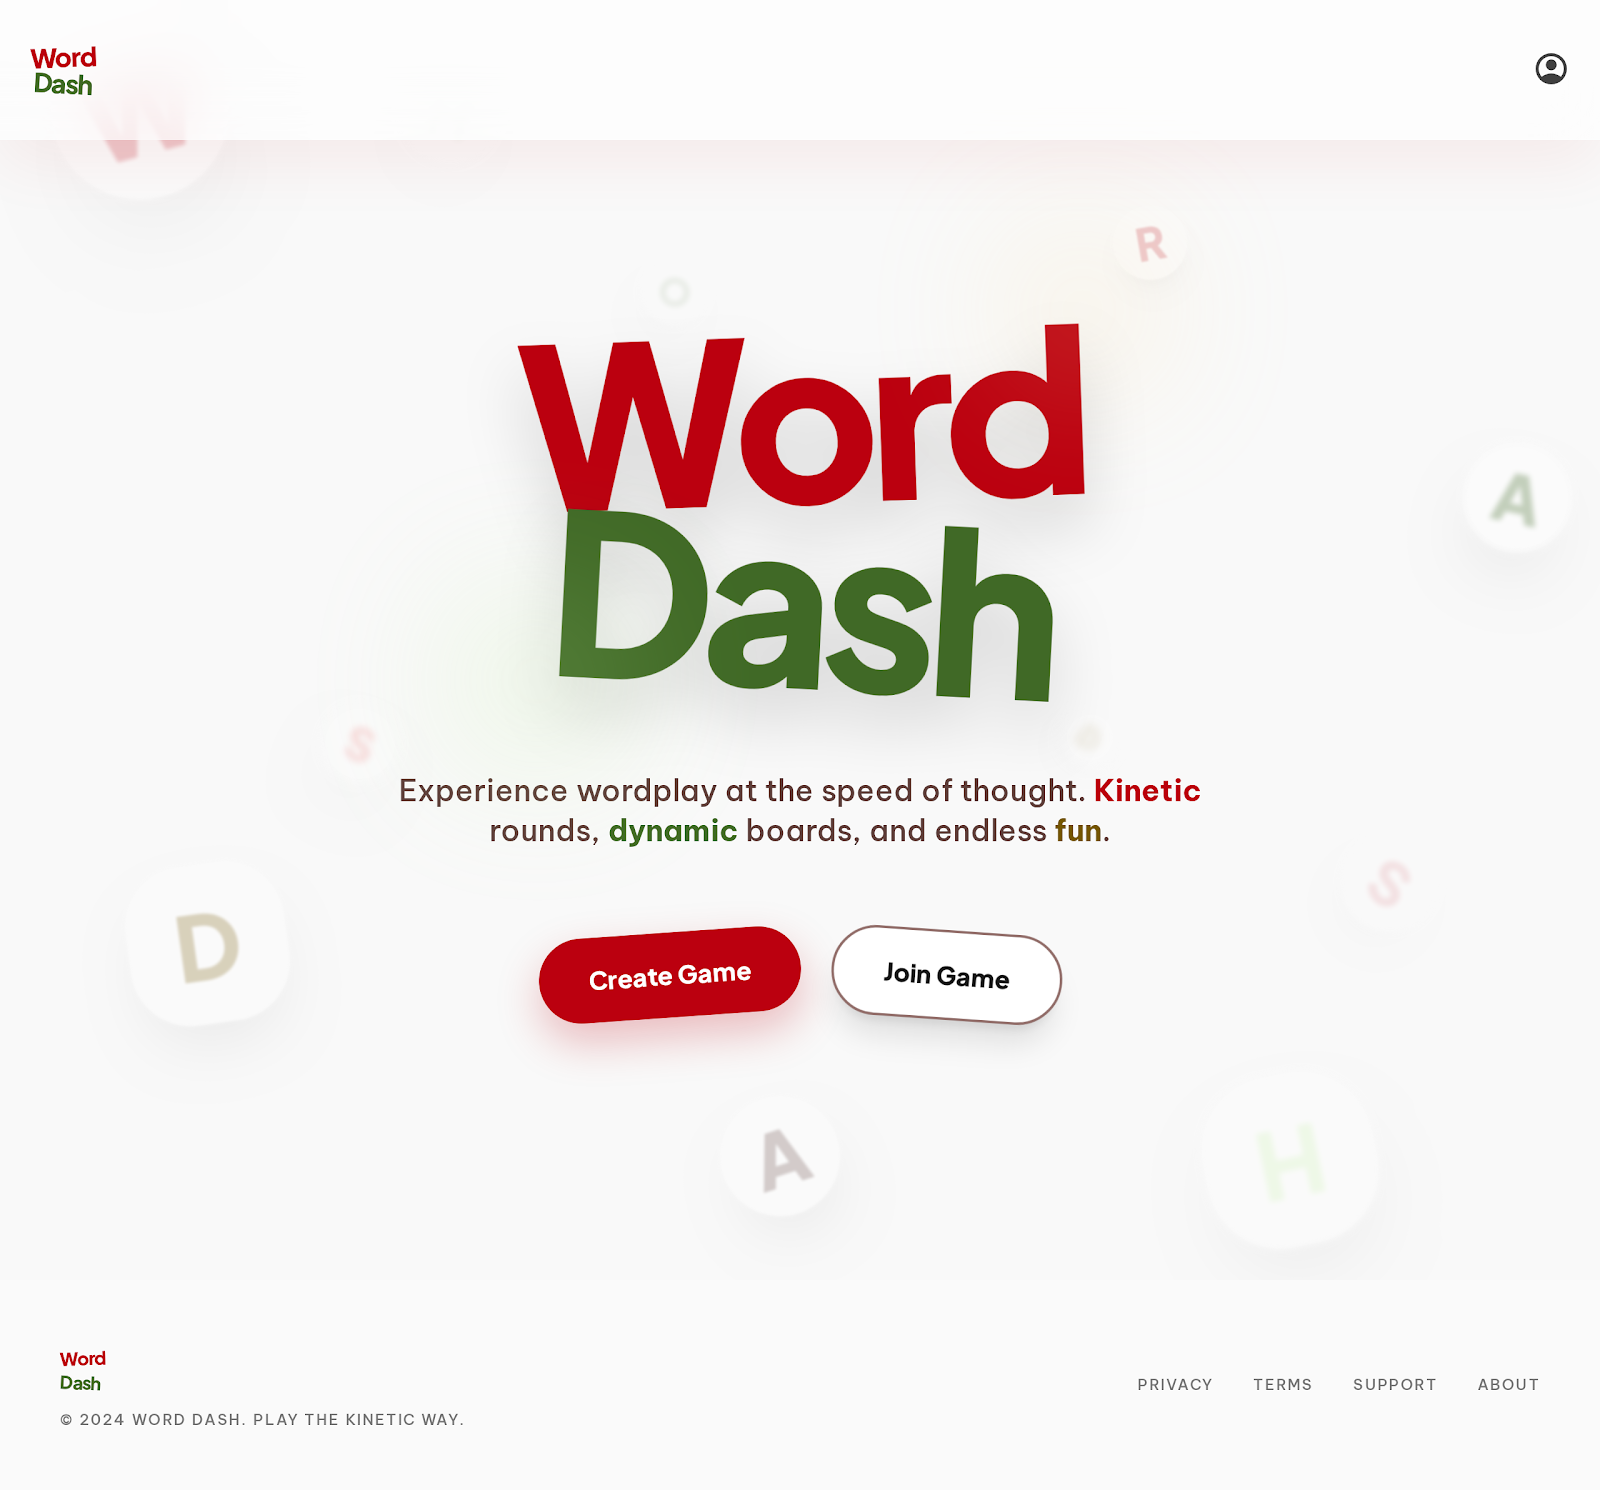
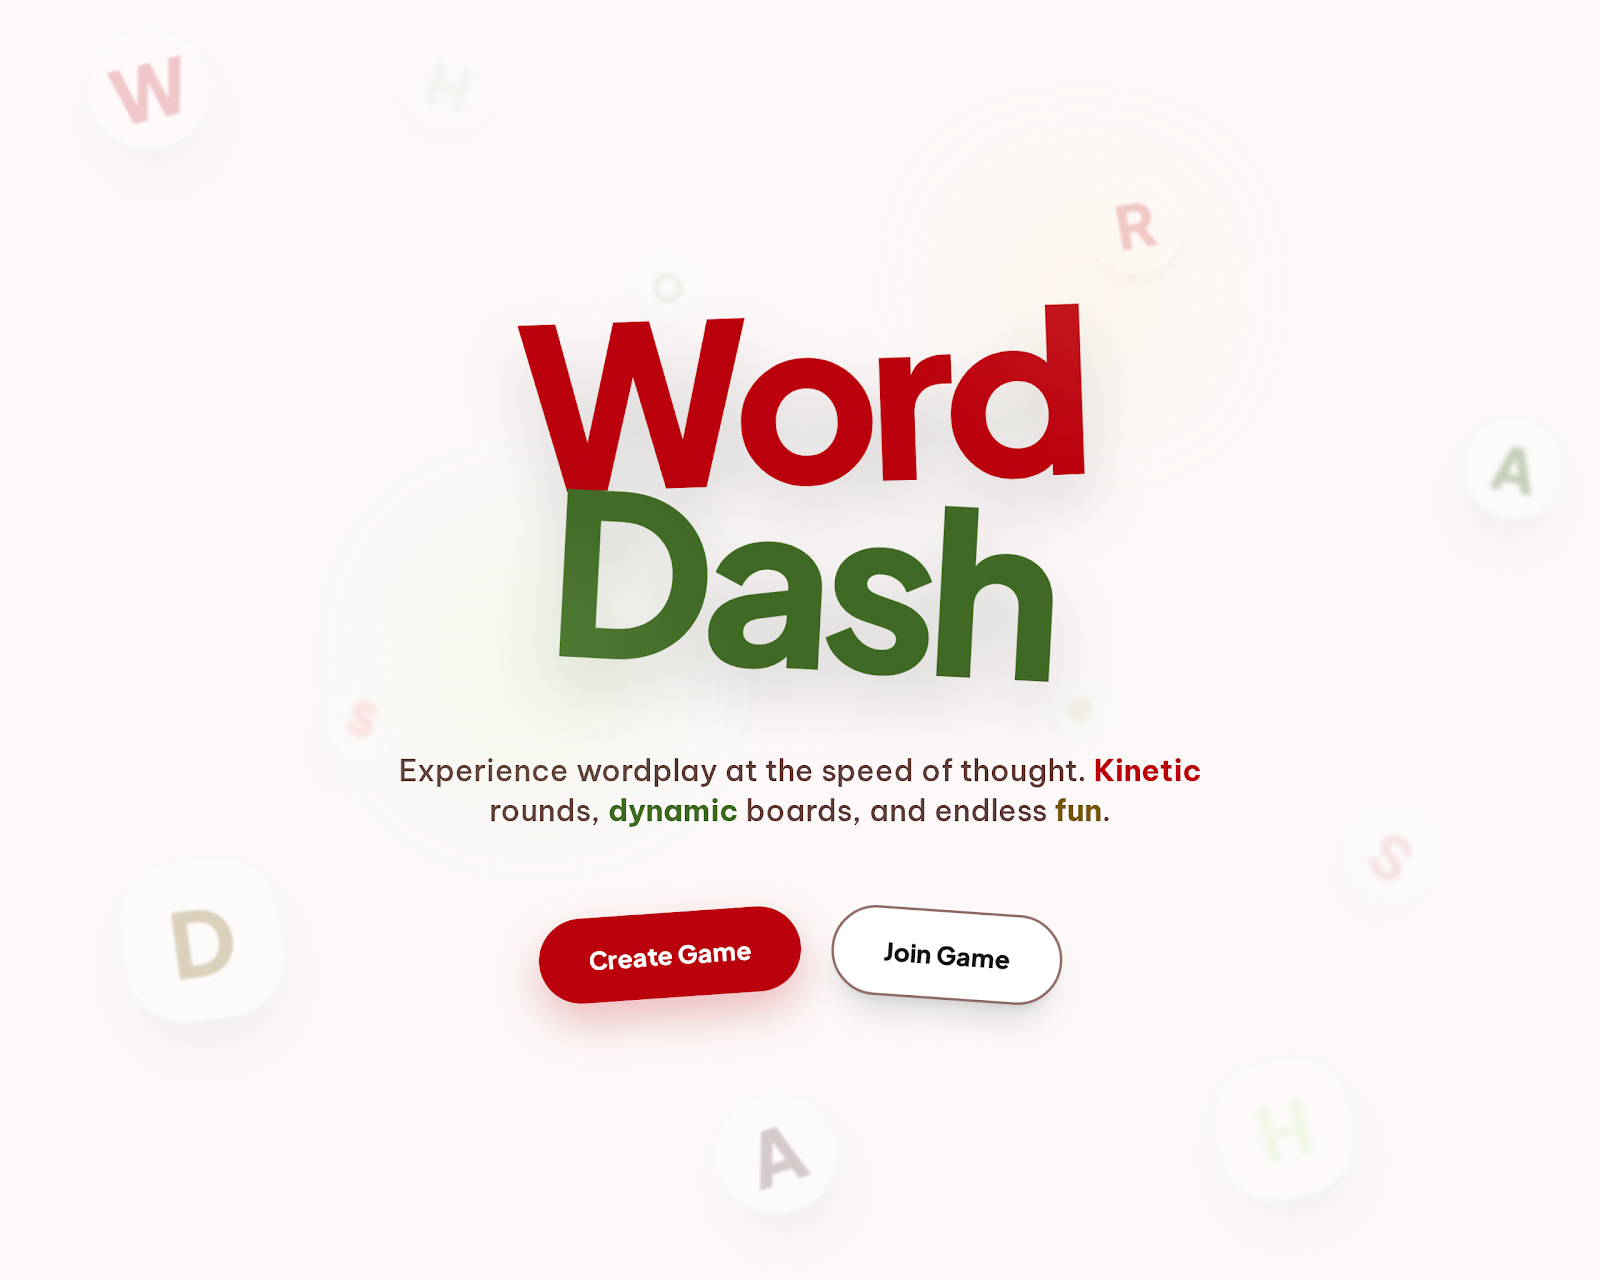
chore: update ui-redesign spec files

diff --git a/docs/internal/frontend/ui-redesign/Home/code.html b/docs/internal/frontend/ui-redesign/Home/code.html
@@ -7,73 +7,74 @@
 <link href="https://fonts.googleapis.com/css2?family=Material+Symbols+Outlined:wght,FILL@100..700,0..1&amp;display=swap" rel="stylesheet"/>
 <script src="https://cdn.tailwindcss.com?plugins=forms,container-queries"></script>
 <script id="tailwind-config">
-      tailwind.config = {
-        darkMode: "class",
-        theme: {
-          extend: {
-            "colors": {
-                    "background": "#f9f9f9",
-                    "tertiary": "#755700",
-                    "primary-fixed": "#ffdad5",
-                    "primary": "#bb000f",
-                    "on-surface": "#1b1b1b",
-                    "surface-dim": "#dadada",
-                    "surface-container-lowest": "#ffffff",
-                    "on-error-container": "#93000a",
-                    "surface-tint": "#c0000f",
-                    "secondary-container": "#c0f19d",
-                    "inverse-primary": "#ffb4aa",
-                    "error": "#ba1a1a",
-                    "primary-fixed-dim": "#ffb4aa",
-                    "on-primary": "#ffffff",
-                    "inverse-on-surface": "#f1f1f1",
-                    "outline": "#926e6a",
-                    "on-secondary-fixed": "#092100",
-                    "secondary-fixed-dim": "#a5d484",
-                    "on-tertiary-fixed-variant": "#5b4300",
-                    "on-tertiary-container": "#fffbff",
-                    "on-primary-fixed": "#410002",
-                    "on-background": "#1b1b1b",
-                    "error-container": "#ffdad6",
-                    "on-primary-container": "#fffbff",
-                    "on-secondary": "#ffffff",
-                    "surface-container-low": "#f3f3f3",
-                    "surface": "#f9f9f9",
-                    "on-primary-fixed-variant": "#930009",
-                    "on-secondary-fixed-variant": "#29500f",
-                    "on-secondary-container": "#466f2b",
-                    "on-error": "#ffffff",
-                    "secondary-fixed": "#c0f19d",
-                    "tertiary-fixed-dim": "#fabd00",
-                    "inverse-surface": "#303030",
-                    "primary-container": "#e51c1e",
-                    "surface-variant": "#e2e2e2",
-                    "secondary": "#406926",
-                    "outline-variant": "#e8bdb7",
-                    "surface-container-high": "#e8e8e8",
-                    "surface-container": "#eeeeee",
-                    "on-surface-variant": "#5e3f3b",
-                    "on-tertiary": "#ffffff",
-                    "on-tertiary-fixed": "#261a00",
-                    "surface-container-highest": "#e2e2e2",
-                    "surface-bright": "#f9f9f9",
-                    "tertiary-container": "#946f00",
-                    "tertiary-fixed": "#ffdf9e"
-            },
-            "borderRadius": {
-                    "DEFAULT": "1rem",
-                    "lg": "2rem",
-                    "xl": "3rem",
-                    "full": "9999px"
-            },
-            "fontFamily": {
-                    "headline": ["Plus Jakarta Sans"],
-                    "body": ["Be Vietnam Pro"],
-                    "label": ["Be Vietnam Pro"]
+        tailwind.config = {
+            darkMode: "class",
+            theme: {
+                extend: {
+                    colors: {
+                        background: "#fcf9f8",
+                        tertiary: "#765700",
+                        "primary-fixed": "#ffdad5",
+                        primary: "#bb000e",
+                        "on-surface": "#1b1b1b",
+                        "surface-dim": "#dcd9d9",
+                        "surface-container-lowest": "#ffffff",
+                        "on-error-container": "#93000a",
+                        "surface-tint": "#c0000f",
+                        "secondary-container": "#c0f19d",
+                        "inverse-primary": "#ffb4aa",
+                        error: "#ba1a1a",
+                        "primary-fixed-dim": "#ffb4aa",
+                        "on-primary": "#ffffff",
+                        "inverse-on-surface": "#f3f0ef",
+                        outline: "#926e6a",
+                        "on-secondary-fixed": "#0a2100",
+                        "secondary-fixed-dim": "#a4d483",
+                        "on-tertiary-fixed-variant": "#5b4300",
+                        "on-tertiary-container": "#fffcff",
+                        "on-primary-fixed": "#410001",
+                        "on-background": "#1b1b1b",
+                        "error-container": "#ffdad6",
+                        "on-primary-container": "#fffbff",
+                        "on-secondary": "#ffffff",
+                        "surface-container-low": "#f6f3f2",
+                        surface: "#fcf9f8",
+                        "on-primary-fixed-variant": "#930008",
+                        "on-secondary-fixed-variant": "#29500e",
+                        "on-secondary-container": "#456f2b",
+                        "on-error": "#ffffff",
+                        "secondary-fixed": "#c0f19d",
+                        "tertiary-fixed-dim": "#fabd00",
+                        "inverse-surface": "#313030",
+                        "primary-container": "#e51c1e",
+                        "surface-variant": "#e5e2e1",
+                        secondary: "#406925",
+                        "outline-variant": "#e7bdb7",
+                        "surface-container-high": "#eae7e7",
+                        "surface-container": "#f0eded",
+                        "on-surface-variant": "#5e3f3b",
+                        "on-tertiary": "#ffffff",
+                        "on-tertiary-fixed": "#251a00",
+                        "surface-container-highest": "#e5e2e1",
+                        "surface-bright": "#fcf9f8",
+                        "tertiary-container": "#946f00",
+                        "tertiary-fixed": "#ffdf9d"
+                    },
+                    borderRadius: {
+                        DEFAULT: "1rem",
+                        lg: "2rem",
+                        xl: "3rem",
+                        full: "9999px"
+                    },
+                    fontFamily: {
+                        headline: ["Plus Jakarta Sans"],
+                        body: ["Be Vietnam Pro"],
+                        label: ["Be Vietnam Pro"],
+                        display: "Plus Jakarta Sans"
+                    }
+                }
             }
-          },
-        },
-      }
+        };
     </script>
 <style>
         .material-symbols-outlined {
@@ -94,122 +95,102 @@
             font-family: 'Plus Jakarta Sans', sans-serif;
             font-weight: 900;
         }
+    
+        @keyframes float {
+            0%, 100% { transform: translate(0, 0) rotate(var(--base-rotate, 0deg)); }
+            25% { transform: translate(10px, -15px) rotate(calc(var(--base-rotate, 0deg) + 2deg)); }
+            50% { transform: translate(-5px, -25px) rotate(calc(var(--base-rotate, 0deg) - 2deg)); }
+            75% { transform: translate(-15px, -10px) rotate(calc(var(--base-rotate, 0deg) + 1deg)); }
+        }
+        .float-animation {
+            animation: float 8s ease-in-out infinite;
+        }
     </style>
 </head>
 <body class="bg-background font-body text-on-surface selection:bg-primary-fixed selection:text-on-primary-fixed-variant overflow-x-hidden">
 <div class="fixed inset-0 kinetic-float overflow-hidden">
-<div class="absolute top-10 left-[5%] rotate-[-15deg] opacity-20 blur-[1px] transform scale-150">
+<div class="absolute top-10 left-[5%] rotate-[-15deg] opacity-20 blur-[1px] transform scale-150 float-animation" style="--base-rotate: -15deg; animation-duration: 10s; animation-delay: 0s;">
 <div class="w-24 h-24 bg-surface-container-lowest backdrop-blur-xl rounded-xl flex items-center justify-center shadow-2xl">
 <span class="font-headline font-black text-6xl text-primary">W</span>
 </div>
 </div>
-<div class="absolute top-[35%] right-[2%] rotate-[12deg] opacity-30 blur-[2px] transform scale-110">
+<div class="absolute top-[35%] right-[2%] rotate-[12deg] opacity-30 blur-[2px] transform scale-110 float-animation" style="--base-rotate: 12deg; animation-duration: 12s; animation-delay: -2s;">
 <div class="w-20 h-20 bg-surface-container-lowest backdrop-blur-xl rounded-xl flex items-center justify-center shadow-2xl">
 <span class="font-headline font-black text-5xl text-secondary">A</span>
 </div>
 </div>
-<div class="absolute bottom-[20%] left-[8%] rotate-[-8deg] opacity-25 blur-[1px]">
+<div class="absolute bottom-[20%] left-[8%] rotate-[-8deg] opacity-25 blur-[1px] float-animation" style="--base-rotate: -8deg; animation-duration: 9s; animation-delay: -5s;">
 <div class="w-32 h-32 bg-surface-container-lowest backdrop-blur-xl rounded-xl flex items-center justify-center shadow-2xl">
 <span class="font-headline font-black text-7xl text-tertiary">D</span>
 </div>
 </div>
-<div class="absolute top-[55%] left-[20%] rotate-[20deg] opacity-15 blur-[3px]">
+<div class="absolute top-[55%] left-[20%] rotate-[20deg] opacity-15 blur-[3px] float-animation" style="--base-rotate: 20deg; animation-duration: 11s; animation-delay: -1s;">
 <div class="w-16 h-16 bg-surface-container-lowest backdrop-blur-xl rounded-xl flex items-center justify-center shadow-2xl">
 <span class="font-headline font-black text-4xl text-primary-container">S</span>
 </div>
 </div>
-<div class="absolute bottom-10 right-[15%] rotate-[-12deg] opacity-20 blur-[2px] transform scale-125">
+<div class="absolute bottom-10 right-[15%] rotate-[-12deg] opacity-20 blur-[2px] transform scale-125 float-animation" style="--base-rotate: -12deg; animation-duration: 13s; animation-delay: -3s;">
 <div class="w-28 h-28 bg-surface-container-lowest backdrop-blur-xl rounded-xl flex items-center justify-center shadow-2xl">
 <span class="font-headline font-black text-6xl text-secondary-container">H</span>
 </div>
 </div>
-<div class="absolute top-[20%] left-[40%] rotate-[25deg] opacity-10 blur-[2px]">
+<div class="absolute top-[20%] left-[40%] rotate-[25deg] opacity-10 blur-[2px] float-animation" style="--base-rotate: 25deg; animation-duration: 8s; animation-delay: -4s;">
 <div class="w-14 h-14 bg-surface-container-lowest backdrop-blur-xl rounded-lg flex items-center justify-center shadow-xl">
 <span class="font-headline font-black text-3xl text-secondary">O</span>
 </div>
 </div>
-<div class="absolute top-[15%] right-[25%] rotate-[-10deg] opacity-20 blur-[1px] transform scale-75">
+<div class="absolute top-[15%] right-[25%] rotate-[-10deg] opacity-20 blur-[1px] transform scale-75 float-animation" style="--base-rotate: -10deg; animation-duration: 14s; animation-delay: -6s;">
 <div class="w-20 h-20 bg-surface-container-lowest backdrop-blur-xl rounded-xl flex items-center justify-center shadow-xl">
 <span class="font-headline font-black text-5xl text-primary">R</span>
 </div>
 </div>
-<div class="absolute bottom-[40%] right-[30%] rotate-[45deg] opacity-15 blur-[4px]">
+<div class="absolute bottom-[40%] right-[30%] rotate-[45deg] opacity-15 blur-[4px] float-animation" style="--base-rotate: 45deg; animation-duration: 10s; animation-delay: -2.5s;">
 <div class="w-12 h-12 bg-surface-container-lowest backdrop-blur-xl rounded-lg flex items-center justify-center shadow-lg">
 <span class="font-headline font-black text-2xl text-tertiary">D</span>
 </div>
 </div>
-<div class="absolute bottom-[5%] left-[45%] rotate-[-18deg] opacity-25 blur-[1px]">
+<div class="absolute bottom-[5%] left-[45%] rotate-[-18deg] opacity-25 blur-[1px] float-animation" style="--base-rotate: -18deg; animation-duration: 11s; animation-delay: -7s;">
 <div class="w-24 h-24 bg-surface-container-lowest backdrop-blur-xl rounded-xl flex items-center justify-center shadow-2xl">
 <span class="font-headline font-black text-6xl text-on-surface-variant">A</span>
 </div>
 </div>
-<div class="absolute top-[65%] right-[10%] rotate-[33deg] opacity-10 blur-[2px]">
+<div class="absolute top-[65%] right-[10%] rotate-[33deg] opacity-10 blur-[2px] float-animation" style="--base-rotate: 33deg; animation-duration: 12s; animation-delay: -1.5s;">
 <div class="w-20 h-20 bg-surface-container-lowest backdrop-blur-xl rounded-xl flex items-center justify-center shadow-xl">
 <span class="font-headline font-black text-5xl text-primary">S</span>
 </div>
 </div>
-<div class="absolute top-[5%] left-[25%] rotate-[15deg] opacity-5 blur-[3px]">
+<div class="absolute top-[5%] left-[25%] rotate-[15deg] opacity-5 blur-[3px] float-animation" style="--base-rotate: 15deg; animation-duration: 9s; animation-delay: -0.5s;">
 <div class="w-20 h-20 bg-surface-container-lowest backdrop-blur-xl rounded-xl flex items-center justify-center shadow-xl">
 <span class="font-headline font-black text-5xl text-on-secondary-container">H</span>
 </div>
 </div>
 </div>
-<nav class="fixed top-0 w-full z-50 bg-white/60 dark:bg-neutral-900/60 backdrop-blur-xl shadow-[0_20px_50px_rgba(187,0,15,0.06)]">
-<div class="flex justify-between items-center px-6 py-3 max-w-full">
-<div class="flex items-center gap-2">
-<div class="flex flex-col items-center leading-[0.7] select-none scale-[0.35] origin-left -my-4">
-<span class="font-headline font-black text-6xl tracking-tighter text-primary transform -rotate-2">Word</span>
-<span class="font-headline font-black text-6xl tracking-tighter text-secondary transform rotate-3">Dash</span>
-</div>
-</div>
-<div class="flex items-center gap-4">
-<button class="hover:scale-105 transition-transform duration-200 active:scale-95 transition-all text-neutral-700 dark:text-neutral-300">
-<span class="material-symbols-outlined text-3xl">account_circle</span>
-</button>
-</div>
-</div>
-</nav>
-<main class="relative z-10 pt-32 pb-24 px-6 min-h-screen flex flex-col items-center justify-center overflow-hidden">
+<main class="relative z-10 pt-32 pb-32 px-6 min-h-screen flex flex-col items-center justify-center overflow-hidden">
 <section class="max-w-4xl w-full text-center space-y-12">
 <div class="relative inline-block select-none">
 <div class="flex flex-col items-center leading-none">
 <h1 class="font-headline font-black text-[120px] md:text-[180px] tracking-tighter text-primary transform -rotate-2 -mb-8 drop-shadow-2xl">
-                    Word
-                </h1>
+                        Word
+                    </h1>
 <h1 class="font-headline font-black text-[120px] md:text-[180px] tracking-tighter text-secondary transform rotate-3 drop-shadow-2xl">
-                    Dash
-                </h1>
+                        Dash
+                    </h1>
 </div>
 <div class="absolute -top-10 -right-12 w-24 h-24 bg-tertiary-fixed rounded-full blur-3xl opacity-40"></div>
 <div class="absolute -bottom-10 -left-12 w-32 h-32 bg-secondary-fixed rounded-full blur-3xl opacity-30"></div>
 </div>
 <p class="font-body text-xl md:text-2xl text-on-surface-variant font-medium max-w-2xl mx-auto leading-relaxed">
-            Experience wordplay at the speed of thought. 
-            <span class="text-primary font-bold">Kinetic</span> rounds, <span class="text-secondary font-bold">dynamic</span> boards, and endless <span class="text-tertiary font-bold">fun</span>.
-        </p>
+                Experience wordplay at the speed of thought. 
+                <span class="text-primary font-bold">Kinetic</span> rounds, <span class="text-secondary font-bold">dynamic</span> boards, and endless <span class="text-tertiary font-bold">fun</span>.
+            </p>
 <div class="flex flex-col sm:flex-row items-center justify-center gap-6 pt-4">
 <button class="w-full sm:w-auto px-10 py-5 bg-primary text-on-primary font-headline font-extrabold text-xl rounded-full shadow-[0_15px_35px_rgba(187,0,15,0.25)] hover:shadow-[0_20px_45px_rgba(187,0,15,0.35)] transition-all transform -rotate-[4deg] hover:-translate-y-1 active:scale-95">
-                Create Game
-            </button>
+                    Create Game
+                </button>
 <button class="w-full sm:w-auto px-10 py-5 bg-surface-container-lowest border-2 border-outline text-on-surface font-headline font-extrabold text-xl rounded-full shadow-xl hover:shadow-2xl transition-all transform rotate-[4deg] hover:-translate-y-1 active:scale-95 backdrop-blur-sm">
-                Join Game
-            </button>
+                    Join Game
+                </button>
 </div>
 </section>
 </main>
-<footer class="w-full py-12 bg-neutral-50 dark:bg-neutral-950 flex flex-col md:flex-row justify-between items-center px-12 gap-6">
-<div class="flex flex-col gap-2">
-<div class="flex flex-col items-start leading-[0.7] select-none scale-[0.6] origin-left -my-2">
-<span class="font-headline font-black text-2xl tracking-tighter text-primary transform -rotate-2">Word</span>
-<span class="font-headline font-black text-2xl tracking-tighter text-secondary transform rotate-3">Dash</span>
-</div>
-<p class="font-['Be_Vietnam_Pro'] text-xs uppercase tracking-widest font-medium text-neutral-500 dark:text-neutral-400">© 2024 Word Dash. Play the Kinetic Way.</p>
-</div>
-<div class="flex gap-8">
-<a class="font-['Be_Vietnam_Pro'] text-xs uppercase tracking-widest font-medium text-neutral-500 dark:text-neutral-400 hover:text-red-600 dark:hover:text-red-400 transition-colors" href="#">Privacy</a>
-<a class="font-['Be_Vietnam_Pro'] text-xs uppercase tracking-widest font-medium text-neutral-500 dark:text-neutral-400 hover:text-red-600 dark:hover:text-red-400 transition-colors" href="#">Terms</a>
-<a class="font-['Be_Vietnam_Pro'] text-xs uppercase tracking-widest font-medium text-neutral-500 dark:text-neutral-400 hover:text-red-600 dark:hover:text-red-400 transition-colors" href="#">Support</a>
-<a class="font-['Be_Vietnam_Pro'] text-xs uppercase tracking-widest font-medium text-neutral-500 dark:text-neutral-400 hover:text-red-600 dark:hover:text-red-400 transition-colors" href="#">About</a>
-</div>
-</footer>
 </body></html>